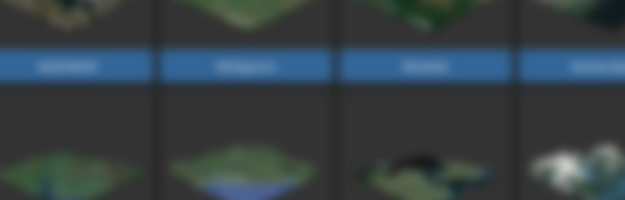
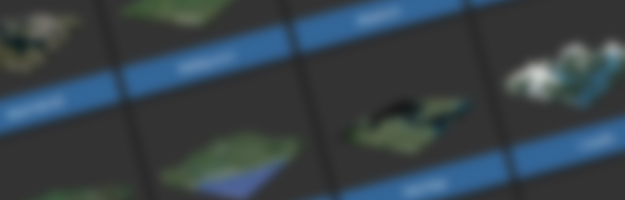
Updated recent CTA, added to user prof page, changed heading for recent page to match CTA

diff --git a/views/user-profile.php b/views/user-profile.php
@@ -37,7 +37,7 @@
         </div>
     </section>
 
-    <section id="environment-listing" class="sdgrey">
+    <section id="environment-listing" class="section--spacer sdgrey">
         <div class="align-centre">
             <?php if(!empty($environments)):
                 foreach($environments as $env): ?>
@@ -57,6 +57,23 @@
                     <h1>This user hasn't cloned any environments yet.</h1>
                 </div>
             <?php endif; ?>
+        </div>
+    </section>
+
+    <section>
+        <div class="align-centre">
+            <a href="/recently-cloned-environments" class="cta cta--recent half">
+                <hgroup class="align-vertical">
+                    <h1>Recenty Cloned</h1>
+                    <h2>See the most recently cloned environments</h2>
+                </hgroup>
+            </a>
+            <a href="/project-titan" class="cta cta--pt-small half">
+                <hgroup class="align-vertical">
+                    <h1>Project Titan</h1>
+                    <h2>Discover the groundbreaking project</h2>
+                </hgroup>
+            </a>
         </div>
     </section>
 

diff --git a/views/recently-cloned-environments.php b/views/recently-cloned-environments.php
@@ -1,6 +1,7 @@
 <header id="fixed-header" class="section-padding">
     <hgroup class="align-vertical">
-        <h1>RECENTLY CLONED ENVIRONMENTS</h1>
+        <h1>RECENTLY CLONED</h1>
+        <h2>THE MOSE RECENTLY CLONED ENVIRONMENTS</h2>
     </hgroup>
 </header>
 
